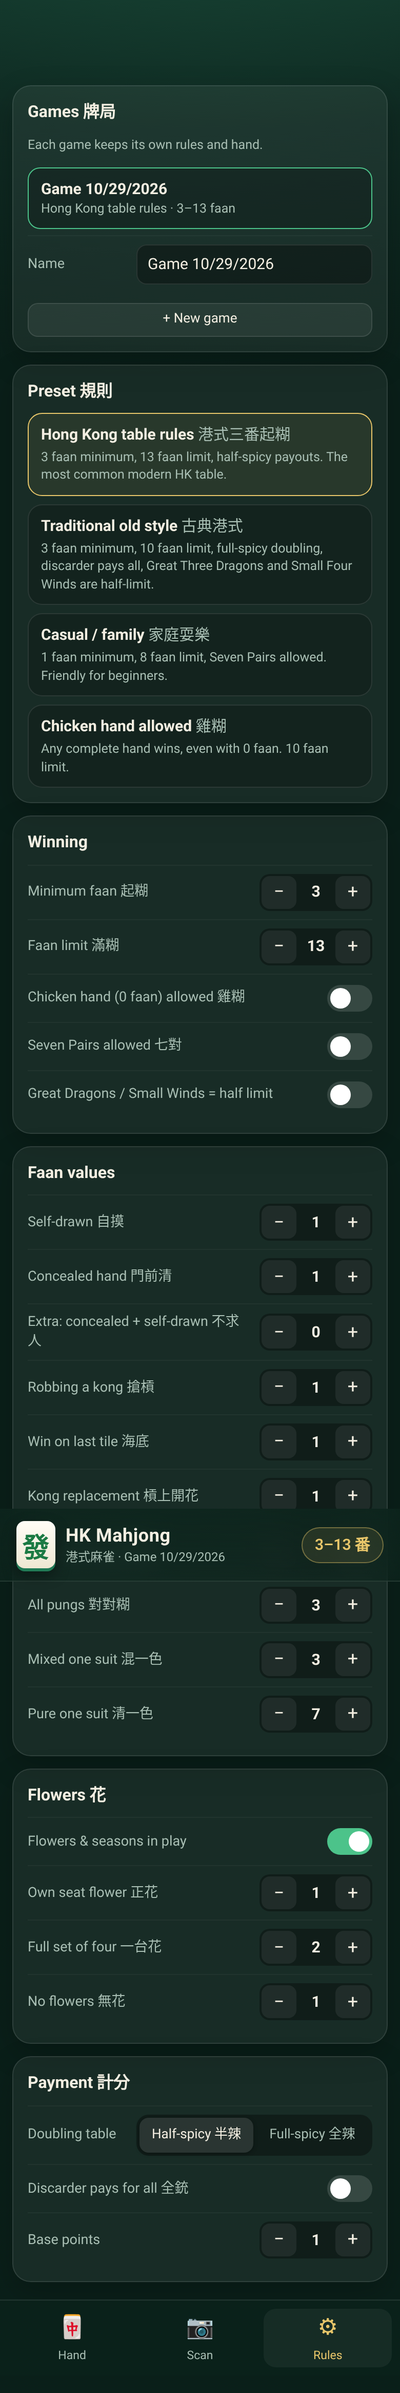
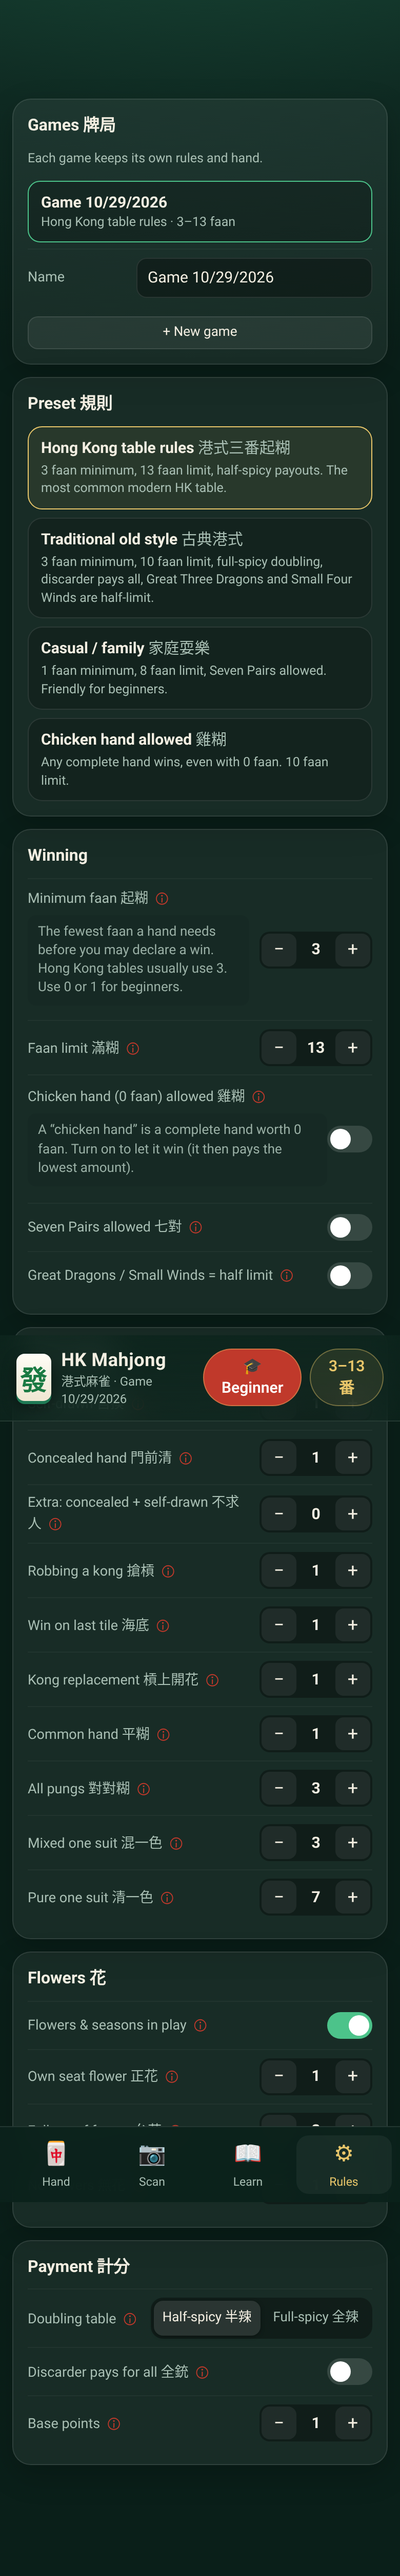
Beginner mode screenshots and README: scanning and beginner sections

diff --git a/src/Beginner.tsx b/src/Beginner.tsx
@@ -113,6 +113,8 @@ export function Explain({ score, ctx, rules }: { score: Score; ctx: WinContext; 
   );
 }
 
+const BONUS = ['Plum 1', 'Orchid 2', 'Chrysanthemum 3', 'Bamboo 4', 'Spring 1', 'Summer 2', 'Autumn 3', 'Winter 4'];
+const caption = (t: number) => (t >= 34 ? BONUS[t - 34] : (tileName(t) ?? '').replace(/ \(.*\)/, ''));
 export function Learn() {
   const groups: [string, number[]][] = [
     ['Characters 萬 – suit, numbers 1 to 9', [0, 1, 2, 3, 4, 5, 6, 7, 8]],
@@ -127,7 +129,7 @@ export function Learn() {
       <section className="card">
         <h2>The tiles</h2>
         <p className="muted small">There are four of each suit and honour tile (136 in all), plus one of each flower and season.</p>
-        {groups.map(([l, ts]) => <div key={l} className="learn-group"><div className="palette-label">{l}</div><div className="row wrap gap">{ts.map((t) => <figure key={t} className="tile-fig"><Tile face={t} size={34} /><figcaption>{tileName(t).replace(/ \(.*\)/, '')}</figcaption></figure>)}</div></div>)}
+        {groups.map(([l, ts]) => <div key={l} className="learn-group"><div className="palette-label">{l}</div><div className="row wrap gap">{ts.map((t) => <figure key={t} className="tile-fig"><Tile face={t} size={34} /><figcaption>{caption(t)}</figcaption></figure>)}</div></div>)}
       </section>
       <section className="card">
         <h2>How a hand wins</h2>

diff --git a/README.md b/README.md
@@ -3,7 +3,7 @@
 A free, open-source **Hong Kong style mahjong helper** for Android and iPhone. It's a Progressive Web App: open it in the phone browser, tap **Add to Home Screen**, and it works like a native app, offline too.
 
 <p>
-<img src="docs/screenshot-waits.png" width="240"> <img src="docs/screenshot-hand.png" width="240"> <img src="docs/screenshot-scan.png" width="240">
+<img src="docs/screenshot-waits.png" width="240"> <img src="docs/screenshot-hand.png" width="240"> <img src="docs/screenshot-beginner-explain.png" width="240">
 </p>
 
 ## Features
@@ -48,14 +48,39 @@ Payment tables: **half-spicy** pays 1, 2, 4, 8, 16, 24, 32, 48, 64, 96, 128… p
 
 Hong Kong scoring varies a lot from table to table. If your table plays differently, change the rules in **Rules**, or open an issue.
 
-## Scanning: what it can and can't do
-Be realistic about scanning. This is a first version.
+## Beginner mode
 
-- **How it works:** everything runs on your phone and no image is uploaded. The app looks for the bright tile faces in the photo and splits that area into the number of tiles you set. It then compares each tile against built-in drawings of every tile, using shape matching plus a colour check.
-- **Works well:** one straight row of tiles, face up and upright, on a dark plain background, evenly lit, filling the frame. With clean images (tested with rendered tiles) it reads all 14 correctly.
-- **Weak spots:** real tile sets look different from the built-in drawings, so expect mistakes with real photos. Dots, bamboo and characters of the same suit get confused most, and so does the 1 Bamboo bird. Tilted, overlapping or stacked tiles, multiple rows, glare, and busy backgrounds all cause problems. Flowers and declared melds are not scanned.
-- **Gets better as you use it:** you check every tile before the hand is used. Tiles you correct, and tiles the app wasn't sure about, are saved on your phone as examples, so later scans of **your own** tile set get more accurate. You can reset these examples at any time.
-- **Planned:** a trained on-device model (e.g. TensorFlow.js or ONNX) using a labelled dataset of real tile photos, and automatic detection of each tile.
+On by default (toggle 🎓 Beginner in the header). It adds:
+
+- A short first-run tutorial (shown once).
+- A guided four-step card on the Hand tab: tiles → how you won → flowers → winds.
+- Under each result: a plain-language explanation of every faan item and why it applies to *this* hand, the payout worked out step by step, and for hands below the minimum a "What is close" list computed by re-scoring the hand (for example "if you had drawn it yourself it would be 3 faan – enough").
+- A **Learn** tab: every tile with its name, how a hand wins, the main scoring patterns with tile pictures, and a glossary.
+- An ⓘ tooltip on every rule setting.
+
+<img src="docs/screenshot-tutorial.png" width="200"> <img src="docs/screenshot-beginner-close.png" width="200"> <img src="docs/screenshot-beginner-explain.png" width="200"> <img src="docs/screenshot-learn.png" width="200"> <img src="docs/screenshot-rules.png" width="200">
+
+## Scanning
+
+<img src="docs/screenshot-camera-guide.png" width="200"> <img src="docs/screenshot-calibrate.png" width="200"> <img src="docs/screenshot-scan.png" width="200">
+
+- **Camera guide**: live view with a frame and one slot per tile, warnings for dark, blurry or glare-filled images. Or choose a photo.
+- **Segmentation**: finds tiles and rows, straightens mild tilt (about ±20°), counts tiles automatically.
+- **AI model**: a small on-device CNN (426k parameters, 430 KB int8, pure TypeScript runtime, works offline). Blended with template matching; calibrating with your own tiles improves it.
+- **Calibration**: photograph your own set once per tile face.
+- **Checks**: flags too many tiles, duplicates beyond four, wrong counts and non-winning reads, with one-tap fixes from the model's next-best guesses. You always review before using a scan.
+
+Measured on 119 held-out photos (see `training/README.md`):
+
+| Test | AI model | Template only |
+|---|---|---|
+| Tight crop (PyTorch) | 95.8% top-1, 98.3% top-3 | – |
+| Full app pipeline | 85.7% top-1, 89.1% top-3 | 25.2% / 37.0% |
+| 30 composite rows, tiles right | 89.3% (11/30 hands fully right) | 23.3% |
+
+Limits: small test set from the same source as the training data; composite rows are not real table photos; tiles must be upright; the camera guide is untested on real phones. Treat a scan as a first draft.
+
+**Dataset**: [Camerash/mahjong-dataset](https://github.com/Camerash/mahjong-dataset) (MIT, 628 images, 42 classes) plus this app's own tile drawings. The images were scraped from the web, so only the trained weights are shipped; images are not in this repo. `training/` has the scripts to reproduce.
 
 ## Development
 ```bash
